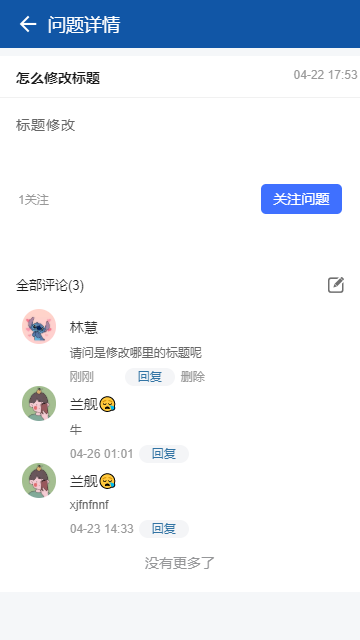
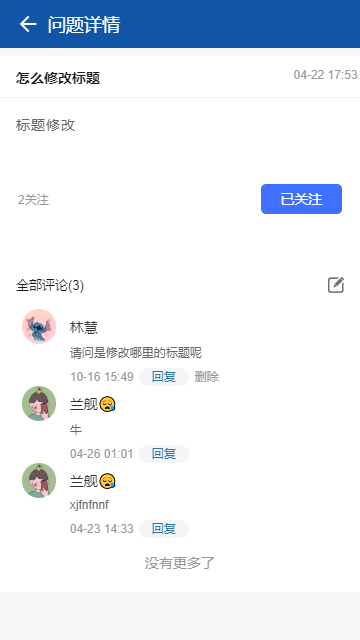
feat: 使用手册-问题反馈

Changed region(s): [[0.1833, 0.5625, 0.6111, 0.5938], [0.7639, 0.2812, 0.9167, 0.3438]]

diff --git a/docs/guide/docs/appHelpGuide/cloudClassHelpDocs.md b/docs/guide/docs/appHelpGuide/cloudClassHelpDocs.md
@@ -1,21 +1,17 @@
-<!-- START doctoc generated TOC please keep comment here to allow auto update -->
-<!-- DON'T EDIT THIS SECTION, INSTEAD RE-RUN doctoc TO UPDATE -->
+<ul>
+   <li><a href="#home">一、掌上学堂介绍</a></li>
+   <li><a href="#course_type">二、课程分类介绍</a></li>
+   <li><a href="#push_course">三、发布视频</a></li>
+   <li><a href="#online_play">四、在线直播</a></li>
+   <li><a href="#course_play">五、视频播放&评论&点赞</a></li>
+   <li><a href="#pc_manage">六、PC Web后端管理</a></li>
+</ul>
 
-- [一、掌上学堂介绍](#%E4%B8%80%E6%8E%8C%E4%B8%8A%E5%AD%A6%E5%A0%82%E4%BB%8B%E7%BB%8D)
-- [二、课程分类介绍](#%E4%BA%8C%E8%AF%BE%E7%A8%8B%E5%88%86%E7%B1%BB%E4%BB%8B%E7%BB%8D)
-- [三、发布视频](#%E4%B8%89%E5%8F%91%E5%B8%83%E8%A7%86%E9%A2%91)
-- [四、在线直播](#%E5%9B%9B%E5%9C%A8%E7%BA%BF%E7%9B%B4%E6%92%AD)
-- [五、视频播放&评论&点赞](#%E4%BA%94%E8%A7%86%E9%A2%91%E6%92%AD%E6%94%BE%E8%AF%84%E8%AE%BA%E7%82%B9%E8%B5%9E)
-- [六、PC Web后端管理](#%E5%85%ADpc-web%E5%90%8E%E7%AB%AF%E7%AE%A1%E7%90%86)
-
-<!-- END doctoc generated TOC please keep comment here to allow auto update -->
-
-
-#### 一、掌上学堂介绍
+#### 一、掌上学堂介绍  <span id='home'></span>  
 掌上学堂是一个移动端视频学习平台，参照互联网思维倾力打造的警务内网在线实用技能学习平台，主要为学习者提供海量、优质的课程点播学习，邀请讲师直播授课等功能。云课堂的宗旨是，为每一位想真真正正学到些实用知识、技能的学习者，提供贴心的一站式学习服务。  
 为将各单位专业技术培训视频及理论思想学习，重要会议记录视频按类别、时间、热度等收集展示，结合点赞、评论功能增强互动性。同时设有统计查看学习记录及排名展示所有用户学习“成绩”的功能，增强学习效果。便利：碎片化学习，提升工作人员业务能力。  
 ![首页](./img/cloudclass/cloudclasshome.png)
-#### 二、课程分类介绍
+#### 二、课程分类介绍  <span id='course_type'></span>
 ![课程分类](./img/cloudclass/fenlei.jpg)  
 1、时政课堂：把国家和国际上的时政热点有机融入到视频课堂当中，精选时政消息，专业人士剖析讲解，可以拓展视野。  
 2、公安科技：随着互联网、大数据等现代科技与传统行业的深度融合，公安系统迎来了许许多多的公安黑科技，“一张图”全城监管，“智慧警车”全城护航，等等。公安科技的成熟，使得在家更舒心，出行更安心。  
@@ -26,12 +22,12 @@
 6、热门课程：推荐最热门的课程视频。  
 7、最新视频：推荐最新的课程视频。  
 ![热门课程](./img/cloudclass/remen.jpg)    
-#### 三、发布视频
+#### 三、发布视频  <span id='push_course'></span>
 点击右下角的加号发布课程视频。  
 ![发布视频](./img/cloudclass/newbuild.jpg)   
 填写课程标题、课程描述、责任单位，上传课程视频和课程封面，选择课程类型，发布视频。尽量详细填写课程描述，让其他用户第一时间了解课程涉及到的内容。    
 ![发布视频](./img/cloudclass/fabu.png)   
-#### 四、在线直播
+#### 四、在线直播  <span id='online_play'></span>
 可支持邀请专家直播授课，授课专家在手机端，创建直播课后，即可开始直播授课。  
 ![开始直播](./img/cloudclass/zhibo.jpg)  
 直播界面  
@@ -43,7 +39,7 @@
 4、弹幕。在直播的同时，设置弹幕，突出显示给其他观众。  
 5、设置管理员。设置直播间的管理员。  
 6、禁言&踢出。在直播间管理员可对某些用户禁言或者直接踢出直播间。  
-#### 五、视频播放&评论&点赞
+#### 五、视频播放&评论&点赞  <span id='course_play'></span>
 点进视频播放界面，上方是课堂内容播放器，下方显示视频详情。  
 ![播放视频](./img/cloudclass/bofang.png)  
 播放器支持视频的暂停/播放/前进/后退、音量的调节、全屏播放、下载。  
@@ -53,7 +49,7 @@
 ![下载视频](./img/cloudclass/xiazai1.jpg)  
 视频中间栏的右侧，可对视频进行收藏和点赞  
 ![点赞](./img/cloudclass/dianzan.jpg)  
-#### 六、PC Web后端管理
+#### 六、PC Web后端管理  <span id='pc_manage'></span>  
 掌上课堂提供PC Web后端管理功能，登录成功后，如下图。  
 ![pc首页](./img/cloudclass/pchome.jpg)  
 1、概览：统计每日学习量/收藏量/评价量，生成每月曲线图。  

diff --git a/docs/guide/docs/appHelpGuide/feedBackHelpDocs.md b/docs/guide/docs/appHelpGuide/feedBackHelpDocs.md
@@ -1,20 +1,72 @@
----
+<ul>
+   <li><a href="#home">一、问题反馈介绍</a></li>
+   <li><a href="#index">二、首页介绍</a></li>
+   <li><a href="#add">三、反馈问题</a></li>
+   <li><a href="#details">四、问题详情</a></li>
+   <li><a href="#pc">五、PC Web后端管理</a></li>
+</ul>
 
-layout: appHelpDocsLayout
+#### 一、问题反馈介绍  <span id='home'></span>
+问题反馈是一个专门为企业开发的移动办公管理应用，用户可以使用它随时随地的查看和处理问题，同时还可以对问题进行分类并集中解决，提升项目信息化管理水平。
+  
+![首页](./img/feedback/home.png)
 
-title: 问题反馈
+#### 二、首页介绍  <span id='index'></span>
 
----
+1.热门问题：如果一个问题大家关注的热度比较高，那么就会出现在热门问题列表中。  
+2.我的问题：如果你反馈了问题，就可以在我的问题列表中看到了。  
+3.我的关注：如果你关注了这个问题，将会在我的关注列表中看到。  
+4.搜索问题：输入关键字就可以搜索到问题了。
 
-#### 开始使用
-在首页上还可以搜索问题
-![首页](./img/feedback/index.jpg)
+![搜索问题](./img/feedback/sousuo.png)
 
-#### 添加问题反馈
-![反馈问题](./img/feedback/feedback.jpg)
-##### 查看问题的详细情况
-你提的问可以点进去看到别人的回答
-![反馈问题](./img/feedback/details.png)
+#### 三、反馈问题  <span id='add'></span>
+
+点击右下角的加号反馈问题。  
+
+![反馈问题](./img/feedback/newbuild.jpg)  
+
+填写问题标题、问题内容、问题图片，反馈问题。尽量详细填写问题描述，让其他回答者第一时间了解问题的原因涉及到的内容。
+
+![反馈问题](./img/feedback/feedback.png)  
+
+#### 四、问题详情  <span id='details'></span>
+
+在问题详情里面可以回答问题，当收到别人的回答以后，可以接着回复别人，讨论还有哪里不清楚的地方，你可也以点击关注这个问题，了解后续问题解决情况。 
+ 
+![问题详情](./img/feedback/details.png)  
+
+若在pc端回答了解决方案，你也可以看到，当问题已解决你可以投已解决，未解决时可继续讨论回复。 
+ 
+![解决方案](./img/feedback/solve.png) 
+
+#### 五、PC Web后端管理  <span id='pc'></span>
+
+问题反馈提供PC Web后端管理功能，登录成功后，如下图。  
+
+![PC端](./img/feedback/pc.png) 
+1.问题详情:在问题详情里面可以看到问题详细解决方案，可以用图片的方式更清晰的解决问题。
+
+![PC端](./img/feedback/pc_details.png) 
+
+2.回答问题：可以支持以图片，视频音频和表格的形式回答问题。
+
+![回答问题](./img/feedback/huida.png) 
+
+3.反馈统计：统计了一共提出了多少问题，有多少是已经解决的，同时有多少用户参与问题解决。  
+
+![反馈统计](./img/feedback/tongji.png)  
+
+4.搜索问题：可以根据你给的各种条件快速搜索到问题，比如时间、关键字，还可以根据已处理和未处理来对问题进行分类。当勾选上问题以后，点击左上角的删除可删除问题，也可以进行批量删除。
+
+![搜索问题](./img/feedback/select.png)
+
+
+
+
+
+
+
 
 
 
